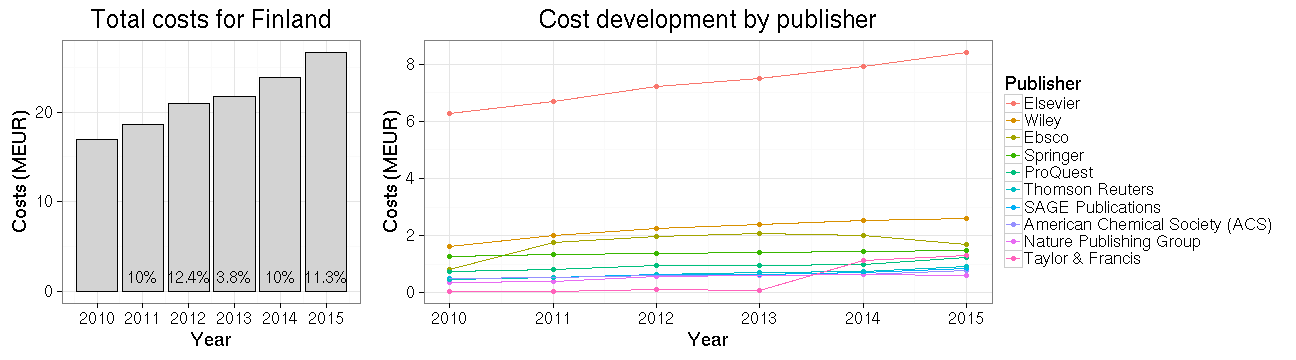
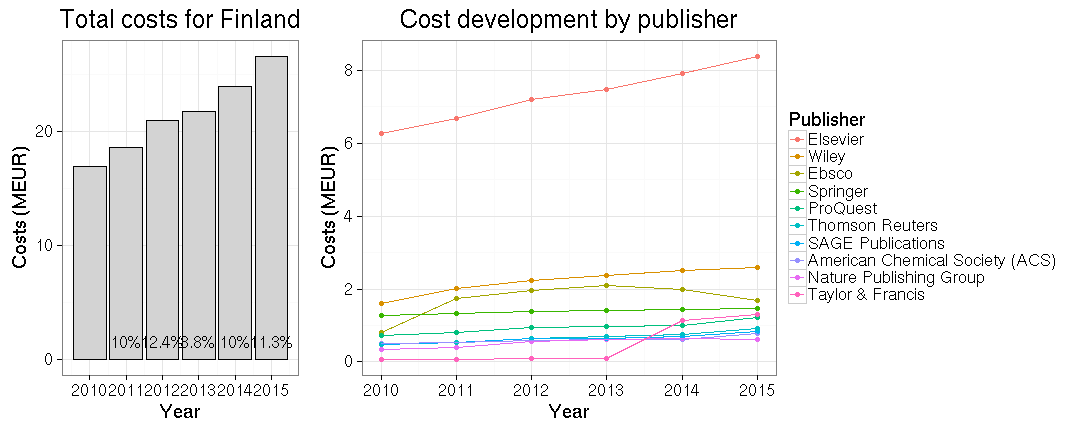
ok

diff --git a/20160610/foi.md b/20160610/foi.md
@@ -74,7 +74,7 @@ Interestingly, over one third of the total costs go to Elsevier, which is often 
 The total costs paid to scientific publishers by Finland increase roughly 10% per year (annual increase is indicated in the left figure). The top-10 publishers (out of 244) correspond to 77% of the overall costs.
 
 
-<img src="figure/foi-costbytime-1.png" title="plot of chunk foi-costbytime" alt="plot of chunk foi-costbytime" width="800px" />
+<img src="figure/foi-costbytime-1.png" title="plot of chunk foi-costbytime" alt="plot of chunk foi-costbytime" width="840px" />
 
 
 
